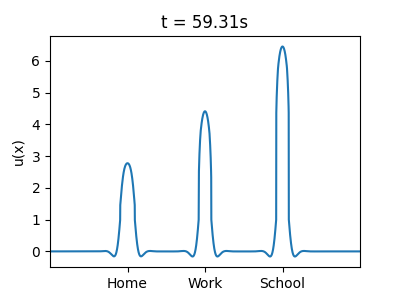
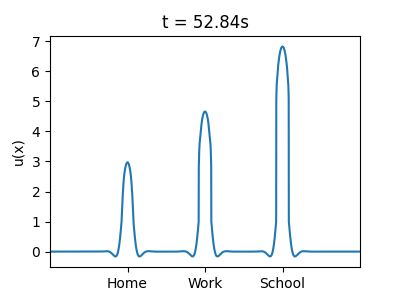
now car stops at each location for x minutes

diff --git a/driving_routine_dnf.py b/driving_routine_dnf.py
@@ -89,6 +89,14 @@ input_on = False
 
 # ----------------------------------------------------------------
 
+# Number of waypoints to add at the end of each route
+t1 = 50
+t2 = 30
+t3 = 70
+
+# Keep track of the previous waypoints
+previous_waypoints = []
+
 # So let's tell the world to spawn the vehicle.
 if desired_blueprint:
 
@@ -100,6 +108,11 @@ if desired_blueprint:
     route_1 = grp.trace_route(destinations['HOME'], destinations['SCHOOL'])
     route_2 = grp.trace_route(destinations['SCHOOL'], destinations['WORK'])
     route_3 = grp.trace_route(destinations['WORK'], destinations['HOME'])
+
+    # Replicate the last waypoint for each route
+    route_1 = carla_helpers.replicate_last_waypoint(route_1, t1)
+    route_2 = carla_helpers.replicate_last_waypoint(route_2, t2)
+    route_3 = carla_helpers.replicate_last_waypoint(route_3, t3)
 
     # Combine the routes
     route = route_1 + route_2 + route_3
@@ -129,12 +142,15 @@ if desired_blueprint:
                 print(f"You arrived at {destination_name}")
                 # Set input_position based on the destination_name
                 input_position = input_positions.get(destination_name, 0)
-                # input_position_index = np.argmin(np.abs(x - input_position))
                 print(f"Setting input_position to {input_position}")
                 input_on = True
                 break  # Exit the loop when the vehicle arrives at a destination
             else:
                 input_on = False
+
+        # Check if the current waypoint is equal to the previous 4 waypoints
+        if (len(previous_waypoints) > 2) and waypoint == previous_waypoints[-3]:
+            input_on = False
 
         carla_helpers.draw_text_annotation(world, vehicle, life_time=0.03)
 
@@ -159,6 +175,13 @@ if desired_blueprint:
 
         # Sleep for a short duration
         time.sleep(0.001)
+
+        # Update the previous waypoints list
+        previous_waypoints.append(waypoint)
+
+        # Only keep the last 5 waypoints in the list to avoid excessive memory usage
+        if len(previous_waypoints) > 4:
+            previous_waypoints.pop(0)
 
     # Additional iterations
     extra_iterations = 200

diff --git a/carla_helpers.py b/carla_helpers.py
@@ -210,3 +210,9 @@ def execute_route(grp, world, vehicle, destinations, start_location, end_locatio
 
     # Make the car stay at this location for x seconds
     time.sleep(sleep_time)
+
+
+def replicate_last_waypoint(route, replication_count):
+    last_waypoint = route[-1]
+    additional_waypoints = [last_waypoint] * replication_count
+    return route + additional_waypoints
